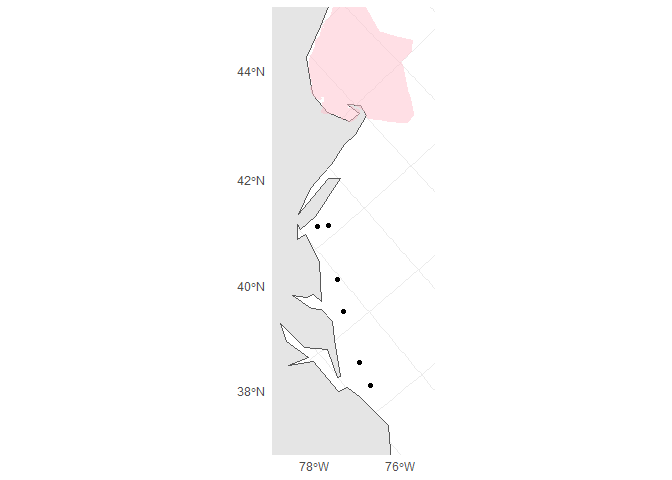
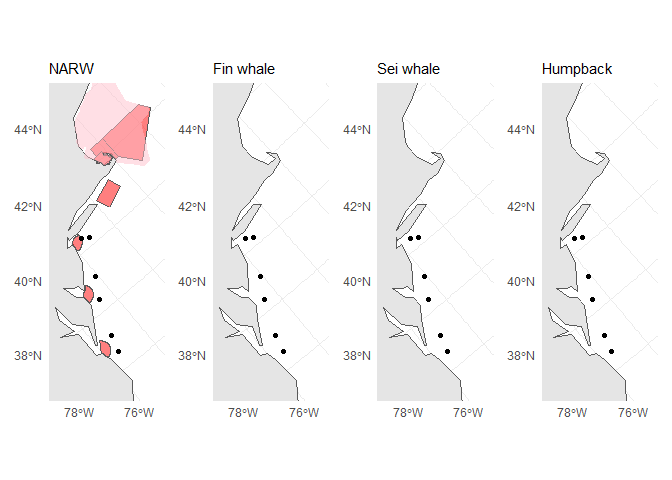
update readme

diff --git a/README.md b/README.md
@@ -10,6 +10,9 @@ Use GitHub Actions continuous integration to plot WHOI near-real-time
 whale buoy (RTWB) detections for various species in the Mid-Atlantic
 Flyway.
 
+Basically, an in-house version of <https://whalemap.org/> that also
+includes fin, sei, and humpback whales.
+
 ## Data sources
 
 - RTWB
@@ -20,6 +23,8 @@ Flyway.
   - <https://noaa.maps.arcgis.com/home/item.html?id=3115892b737a447abe2affa7e773701c>
 - CAN NARW critical habitat
   - <https://open.canada.ca/data/en/dataset/db177a8c-5d7d-49eb-8290-31e6a45d786c>
+- NOAA NARW seasonal management areas
+  - <https://www.fisheries.noaa.gov/resource/map/north-atlantic-right-whale-seasonal-management-areas-sma>  
 - Slow zones
 
 ## Desired output
@@ -32,8 +37,8 @@ Flyway.
   - slow_zone_active
 - Figures (5; 4 facets, 1 per species):
   - All:
-    - Coastline in OMERC projection
-    - Critical habitat polygons
+    - [x] Coastline in OMERC projection
+    - [x] Critical habitat polygons
   - Yesterday: 4 plots, 1 per species
     - RTWB location filled if present, point if absent
     - slow zone polygon filled if active, transparent if not
